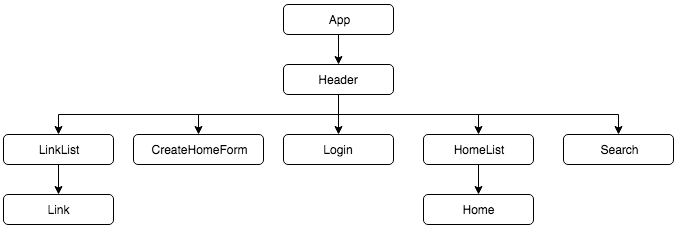
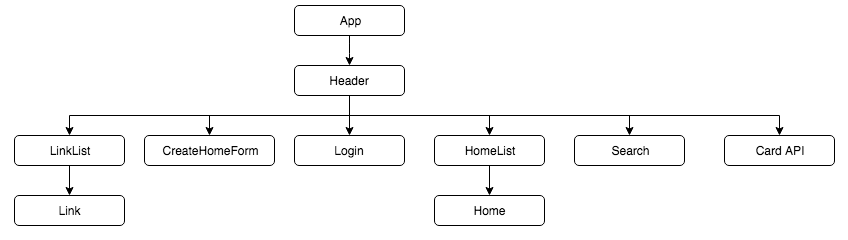
implement card api

diff --git a/src/components/Card.js b/src/components/Card.js
@@ -1,0 +1,52 @@
+import React, { Component } from 'react';
+
+class Card extends Component {
+  constructor() {
+    super()
+    this.state = {
+      deck_id: "",
+      showCards: [],
+      remaining: null
+    }
+  }
+
+  componentDidMount = async () => {
+    const DECK_API = 'https://deckofcardsapi.com/api/deck/new/shuffle/?deck_count=1'
+    let response = await fetch(DECK_API)
+    let { deck_id, remaining } = await response.json()
+    this.setState({
+      deck_id,
+      remaining
+    })
+    this.drawCards(this.state.deck_id)
+  }
+
+  drawCards = async (id) => {
+    let drawResponse = await fetch(`https://deckofcardsapi.com/api/deck/${id}/draw/?count=10`)
+    let { cards, remaining } = await drawResponse.json()
+    this.setState({
+      showCards: cards,
+      remaining
+    })
+    console.log(this.state)
+  }
+
+  render() {
+    let displayCards = this.state.showCards.map(card => <img src={card.image} key={card.code}/>)
+
+    return (
+      <div>
+        <h4>Card List</h4>
+        <a className="f6 link dim br1 ph3 pv2 mb2 dib white bg-black add-card-btn" onClick={() => this.drawCards(this.state.deck_id)}>Add cards</a>
+        <div className="flex justify-center">
+          <div className="fl w-80 pa2">
+            { displayCards }
+          </div>
+        </div>
+      </div>
+    );
+  }
+
+}
+
+export default Card;

diff --git a/src/components/App.js b/src/components/App.js
@@ -8,6 +8,7 @@ import CreateHomeForm from './CreateHomeForm'
 import Login from './Login'
 import HomeList from './HomeList'
 import Search from './Search'
+import Card from './Card'
 
 class App extends Component {
   render() {
@@ -24,6 +25,9 @@ class App extends Component {
             <Route exact path="/search" component={Search} />
             <Route exact path="/top" component={HomeList} />
             <Route exact path="/new/:page" component={HomeList} />
+
+            // Deck of cards API
+            <Route exact path="/card" component={Card} />
           </Switch>
         </div>
       </div>

diff --git a/src/components/Header.js b/src/components/Header.js
@@ -39,6 +39,11 @@ class Header extends Component {
               </Link>
             </div>
           )}
+
+          <div className="ml1">|</div>
+          <Link to="/card" className="ml1 no-underline black">
+            card API
+          </Link>
         </div>
 
         <div className="flex flex-fixed">

diff --git a/src/styles/App.css b/src/styles/App.css
@@ -27,6 +27,6 @@
   to { transform: rotate(360deg); }
 }
 
-.vote-btn, .vote-home-btn {
+.vote-btn, .vote-home-btn, .add-card-btn {
   cursor: pointer;
 }
